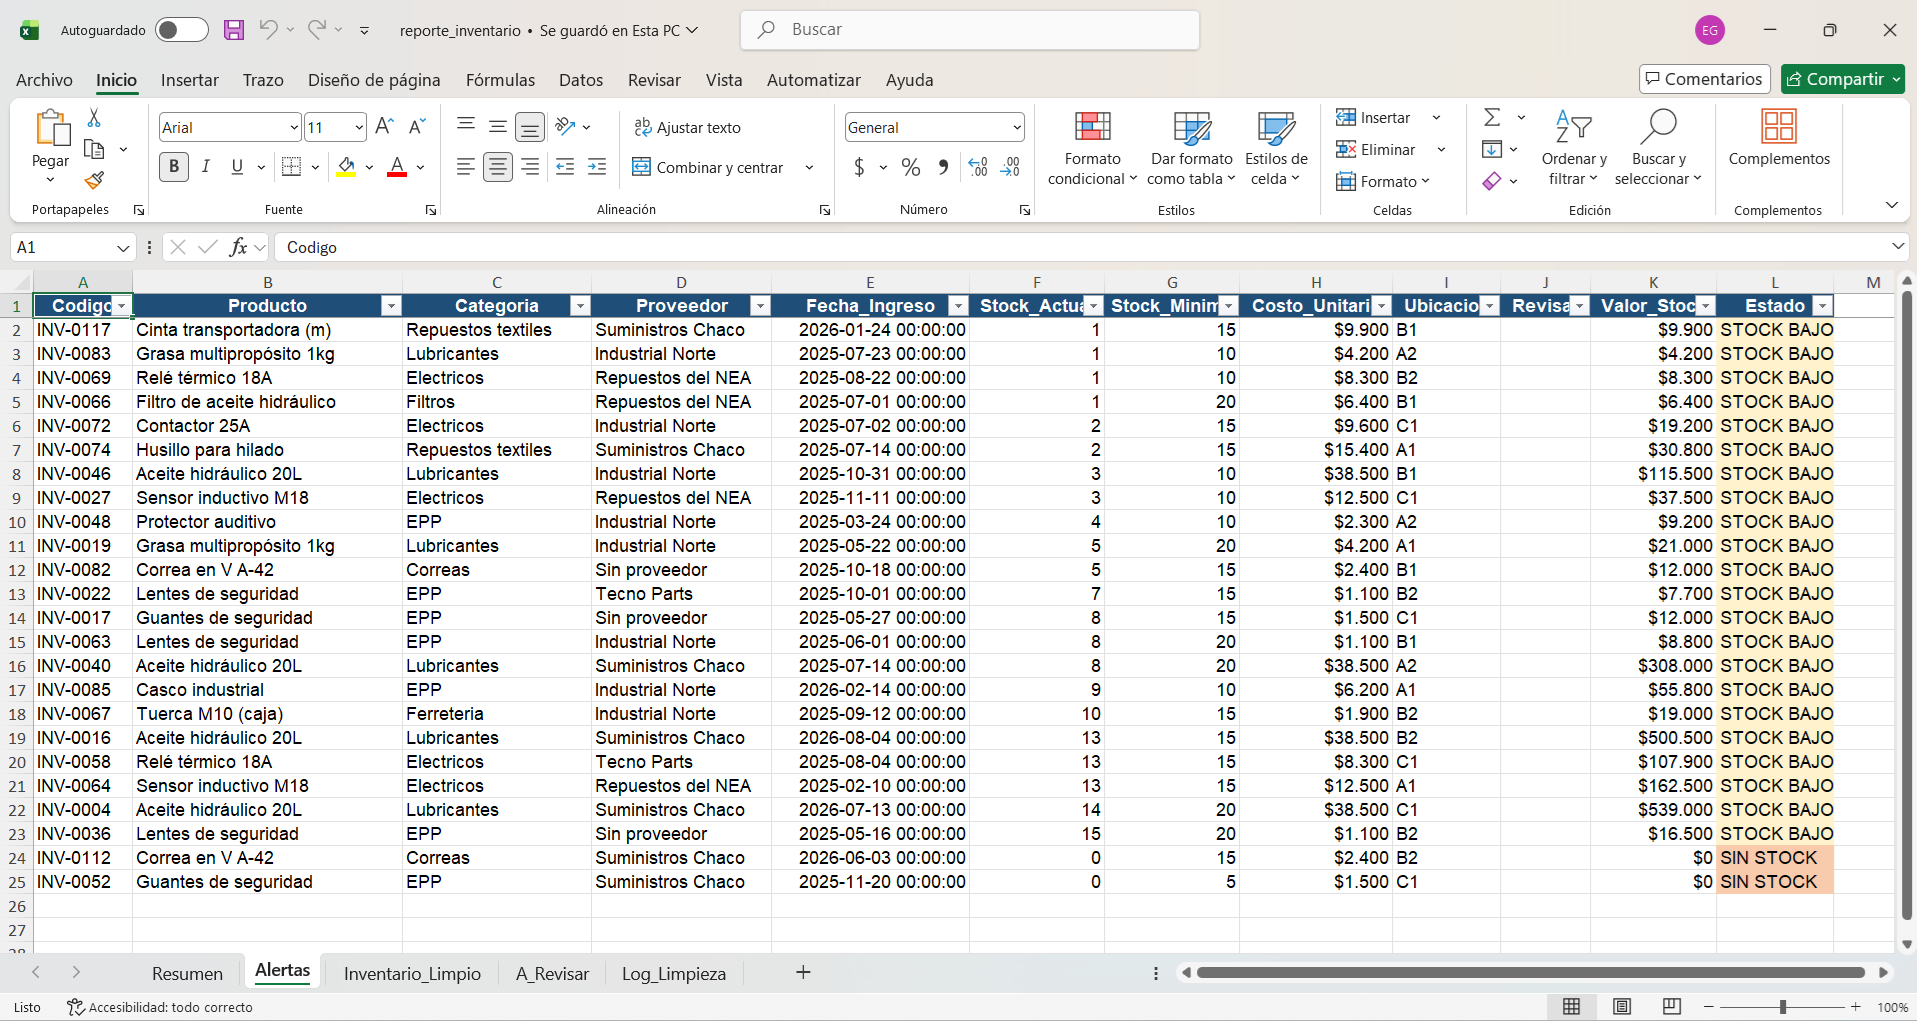
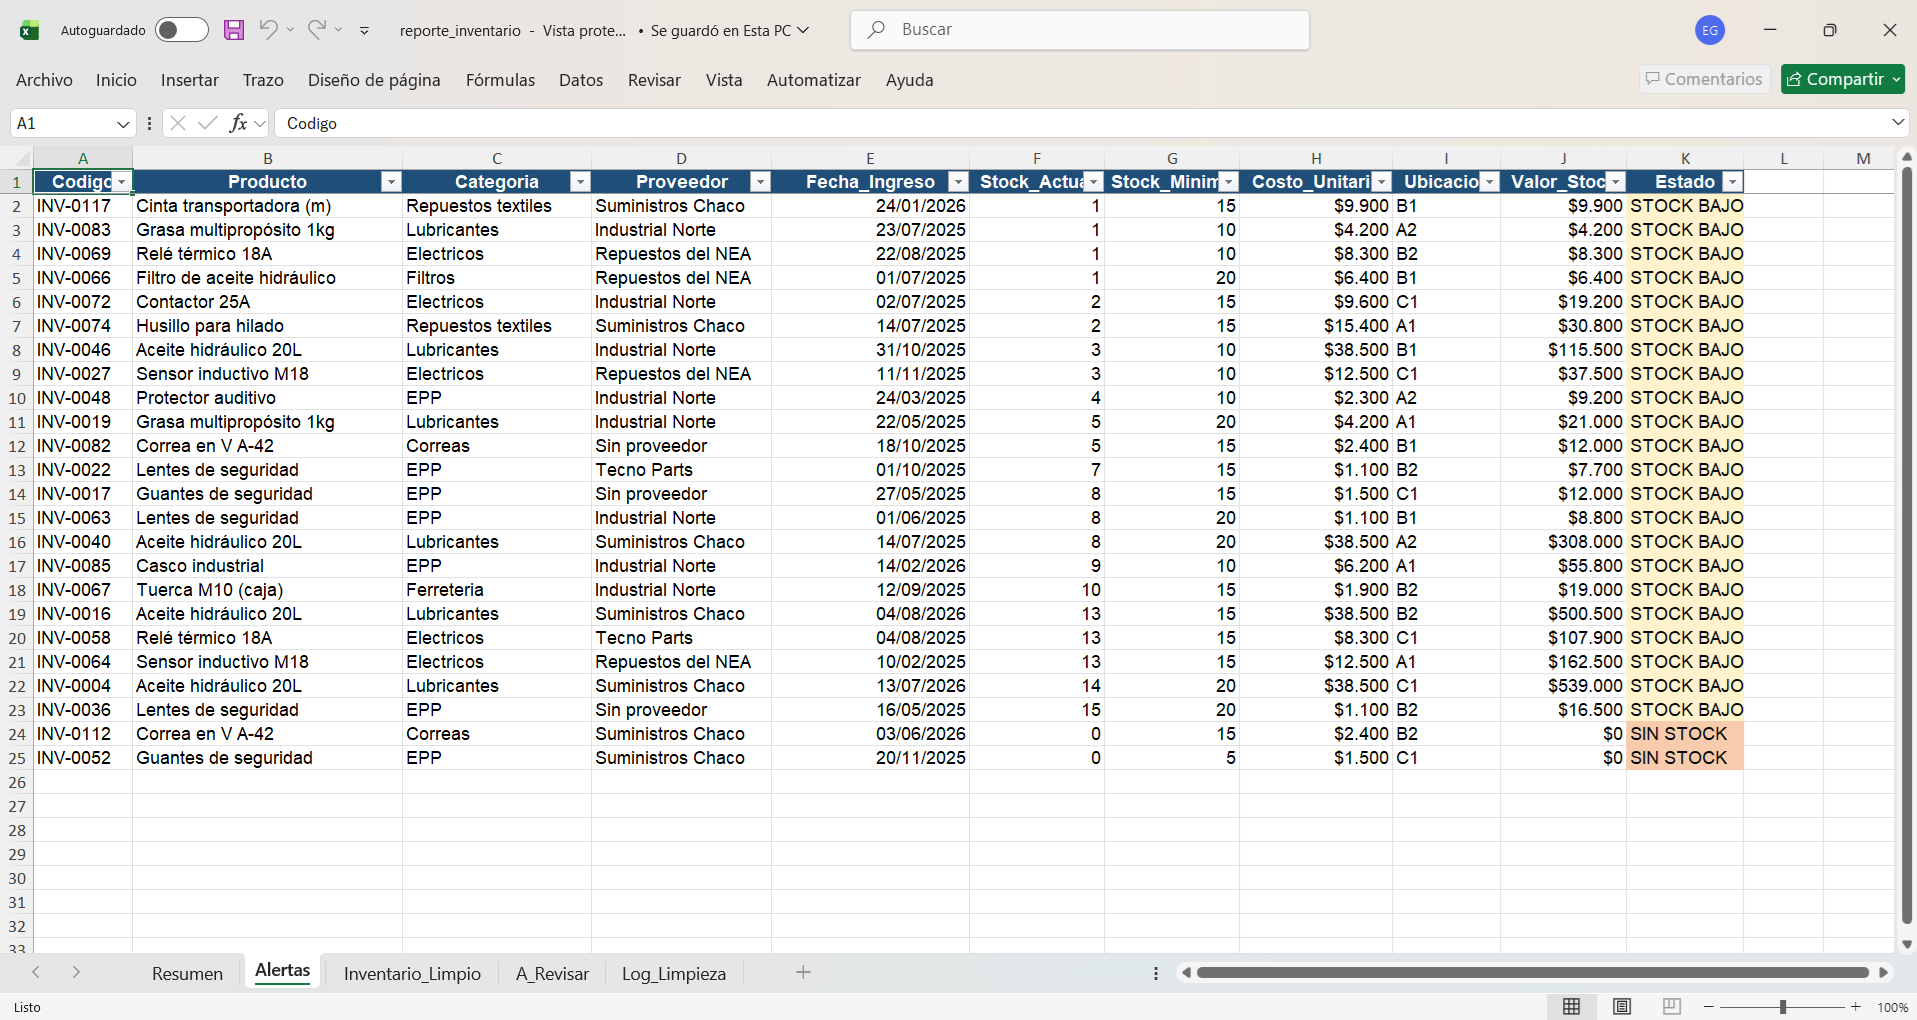
Add files via upload

diff --git a/limpiar_inventario.py b/limpiar_inventario.py
@@ -49,7 +49,7 @@ def a_fecha(valor):
 
 fechas = df["Fecha_Ingreso"].apply(a_fecha)
 log.append(("Fechas no reconocidas (revisar a mano)", int(fechas.isna().sum())))
-df["Fecha_Ingreso"] = fechas
+df["Fecha_Ingreso"] = pd.to_datetime(fechas)
 
 # 5) Costo: "$1,850" -> 1850 ----------------------------------------------
 costo = (df["Costo_Unitario"].astype(str)
@@ -71,7 +71,7 @@ df.loc[df["Fecha_Ingreso"].isna(), "Revisar"] += " Fecha inválida"
 df["Revisar"] = df["Revisar"].str.strip()
 
 # 7) Cálculos del reporte -------------------------------------------------
-limpio = df[df["Revisar"] == ""].copy()
+limpio = df[df["Revisar"] == ""].drop(columns=["Revisar"]).copy()
 limpio["Stock_Actual"] = limpio["Stock_Actual"].astype(int)
 limpio["Valor_Stock"] = limpio["Stock_Actual"] * limpio["Costo_Unitario"]
 limpio["Estado"] = limpio.apply(
@@ -109,6 +109,9 @@ with pd.ExcelWriter(SALIDA, engine="openpyxl", datetime_format="DD/MM/YYYY") as 
         for i, col in enumerate(datos.columns, 1):
             ancho = max(len(str(col)), *(len(str(v)) for v in datos[col])) if len(datos) else len(str(col))
             ws.column_dimensions[get_column_letter(i)].width = min(ancho + 3, 40)
+            if col == "Fecha_Ingreso":
+                for c in ws[get_column_letter(i)][1:]:
+                    c.number_format = "DD/MM/YYYY"
             if col in ("Costo_Unitario", "Valor_Stock", "Valor_Total"):
                 for c in ws[get_column_letter(i)][1:]:
                     c.number_format = '$#,##0'
